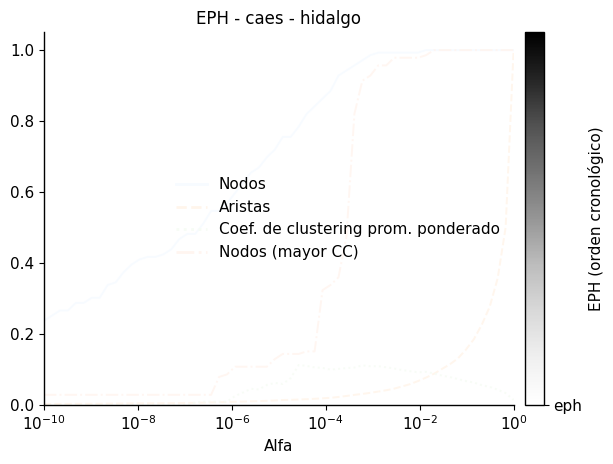
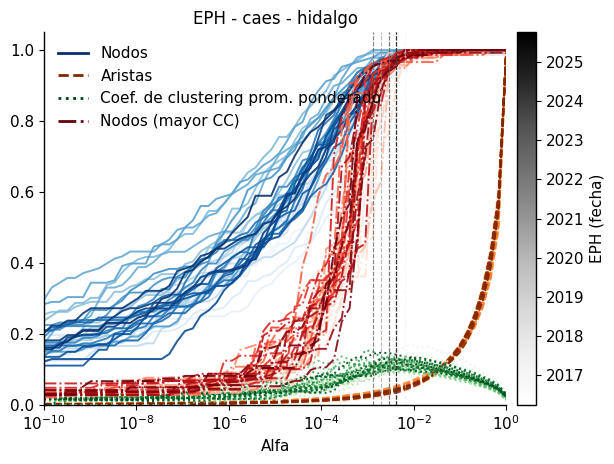
Fix alpha sensitivity plotting by incorporating date on eph data

diff --git a/src/plotting.py b/src/plotting.py
@@ -8,6 +8,7 @@ import src.utils as ut
 
 from persim import plot_diagrams as persim_plot_diagrams
 import gudhi
+import matplotlib.dates as mdates
 import matplotlib.patches as patches
 import matplotlib.path as mpath
 import matplotlib.pyplot as plt
@@ -1733,7 +1734,24 @@ def plot_alpha_sensitivity_multi_series(
 			"reference_alphas must be None or have length equal to series_labels"
 		)
 
-	norm = mpl.colors.Normalize(vmin=0, vmax=max(1, n_series - 1))
+	series_dates: list[pd.Timestamp | None] = []
+	for label in series_labels:
+		parsed_key = ut.parse_eph_file_key(label)
+		series_dates.append(
+			pd.Timestamp(parsed_key.time_date) if parsed_key is not None else None
+		)
+	use_date_scale = all(ts is not None for ts in series_dates)
+	if use_date_scale:
+		series_date_nums = np.array(
+			[mdates.date2num(ts.to_pydatetime()) for ts in series_dates if ts is not None],
+			dtype=float,
+		)
+		norm = mpl.colors.Normalize(
+			vmin=float(series_date_nums.min()), vmax=float(series_date_nums.max())
+		)
+	else:
+		series_date_nums = np.arange(n_series, dtype=float)
+		norm = mpl.colors.Normalize(vmin=0, vmax=max(1, n_series - 1))
 
 	metric_specs = [
 		{
@@ -1766,7 +1784,7 @@ def plot_alpha_sensitivity_multi_series(
 	for spec in metric_specs:
 		cmap = spec["cmap"]
 		for i in range(n_series):
-			color = cmap(norm(i))
+			color = cmap(norm(series_date_nums[i]))
 			ax.plot(
 				alphas,
 				spec["data"][i, :],
@@ -1780,7 +1798,7 @@ def plot_alpha_sensitivity_multi_series(
 			mpl.lines.Line2D(
 				[0],
 				[0],
-				color=cmap(norm(n_series - 1)),
+				color=cmap(norm(series_date_nums[-1])),
 				linewidth=2,
 				linestyle=spec["linestyle"],
 				label=spec["label"],
@@ -1795,7 +1813,7 @@ def plot_alpha_sensitivity_multi_series(
 				continue
 			ax.axvline(
 				x=float(ref),
-				color=ref_cmap(norm(i)),
+				color=ref_cmap(norm(series_date_nums[i])),
 				linestyle="--",
 				linewidth=0.8,
 				alpha=0.22,
@@ -1808,18 +1826,24 @@ def plot_alpha_sensitivity_multi_series(
 	sm = mpl.cm.ScalarMappable(norm=norm, cmap=mpl.cm.Greys)
 	sm.set_array([])
 	cbar = fig.colorbar(sm, ax=ax, pad=0.02)
-	cbar.set_label("EPH (orden cronológico)")
-
-	max_ticks = max(2, int(max_cbar_ticks))
-	n_ticks = min(n_series, max_ticks)
-	if n_series == 1:
-		tick_idx = np.array([0], dtype=int)
+	if use_date_scale:
+		locator = mdates.AutoDateLocator(minticks=2, maxticks=max(2, int(max_cbar_ticks)))
+		cbar.ax.yaxis.set_major_locator(locator)
+		cbar.ax.yaxis.set_major_formatter(mdates.ConciseDateFormatter(locator))
+		cbar.set_label("EPH (fecha)")
 	else:
-		tick_idx = np.unique(
-			np.round(np.linspace(0, n_series - 1, n_ticks)).astype(int)
-		)
-	cbar.set_ticks(tick_idx)
-	cbar.set_ticklabels([series_labels[i] for i in tick_idx])
+		cbar.set_label("EPH (orden cronológico)")
+
+		max_ticks = max(2, int(max_cbar_ticks))
+		n_ticks = min(n_series, max_ticks)
+		if n_series == 1:
+			tick_idx = np.array([0], dtype=int)
+		else:
+			tick_idx = np.unique(
+				np.round(np.linspace(0, n_series - 1, n_ticks)).astype(int)
+			)
+		cbar.set_ticks(tick_idx)
+		cbar.set_ticklabels([series_labels[i] for i in tick_idx])
 
 	ax.set_title(title)
 	ax.set_xlabel("Alfa")

diff --git a/scripts/09_alpha_sensitivity_eph.py b/scripts/09_alpha_sensitivity_eph.py
@@ -14,12 +14,21 @@ def _extract_eph_file(metrics: dict[str, Any], input_path: Path) -> str:
 		return eph_file
 
 	# Expected path pattern:
-	# data/processed/{dataset}/{class_}/_alpha_sensitivity/_{weight_function}_{algorithm}.json
+	# data/processed/eph/{eph_file}/{class_}/_alpha_sensitivity/_{weight_function}.json
 	parts = list(input_path.parts)
+
+	# Try to find the eph_file by looking for _alpha_sensitivity directory
+	if "_alpha_sensitivity" in parts:
+		idx = parts.index("_alpha_sensitivity")
+		if idx >= 2:
+			# parts[idx-2] should be the eph_file, parts[idx-1] should be class_
+			return parts[idx - 2]
+
+	# Fallback: look for "processed" and extract the part 2 positions after it
 	if "processed" in parts:
 		idx = parts.index("processed")
-		if idx + 1 < len(parts):
-			return parts[idx + 1]
+		if idx + 2 < len(parts):
+			return parts[idx + 2]
 
 	return input_path.stem
 
